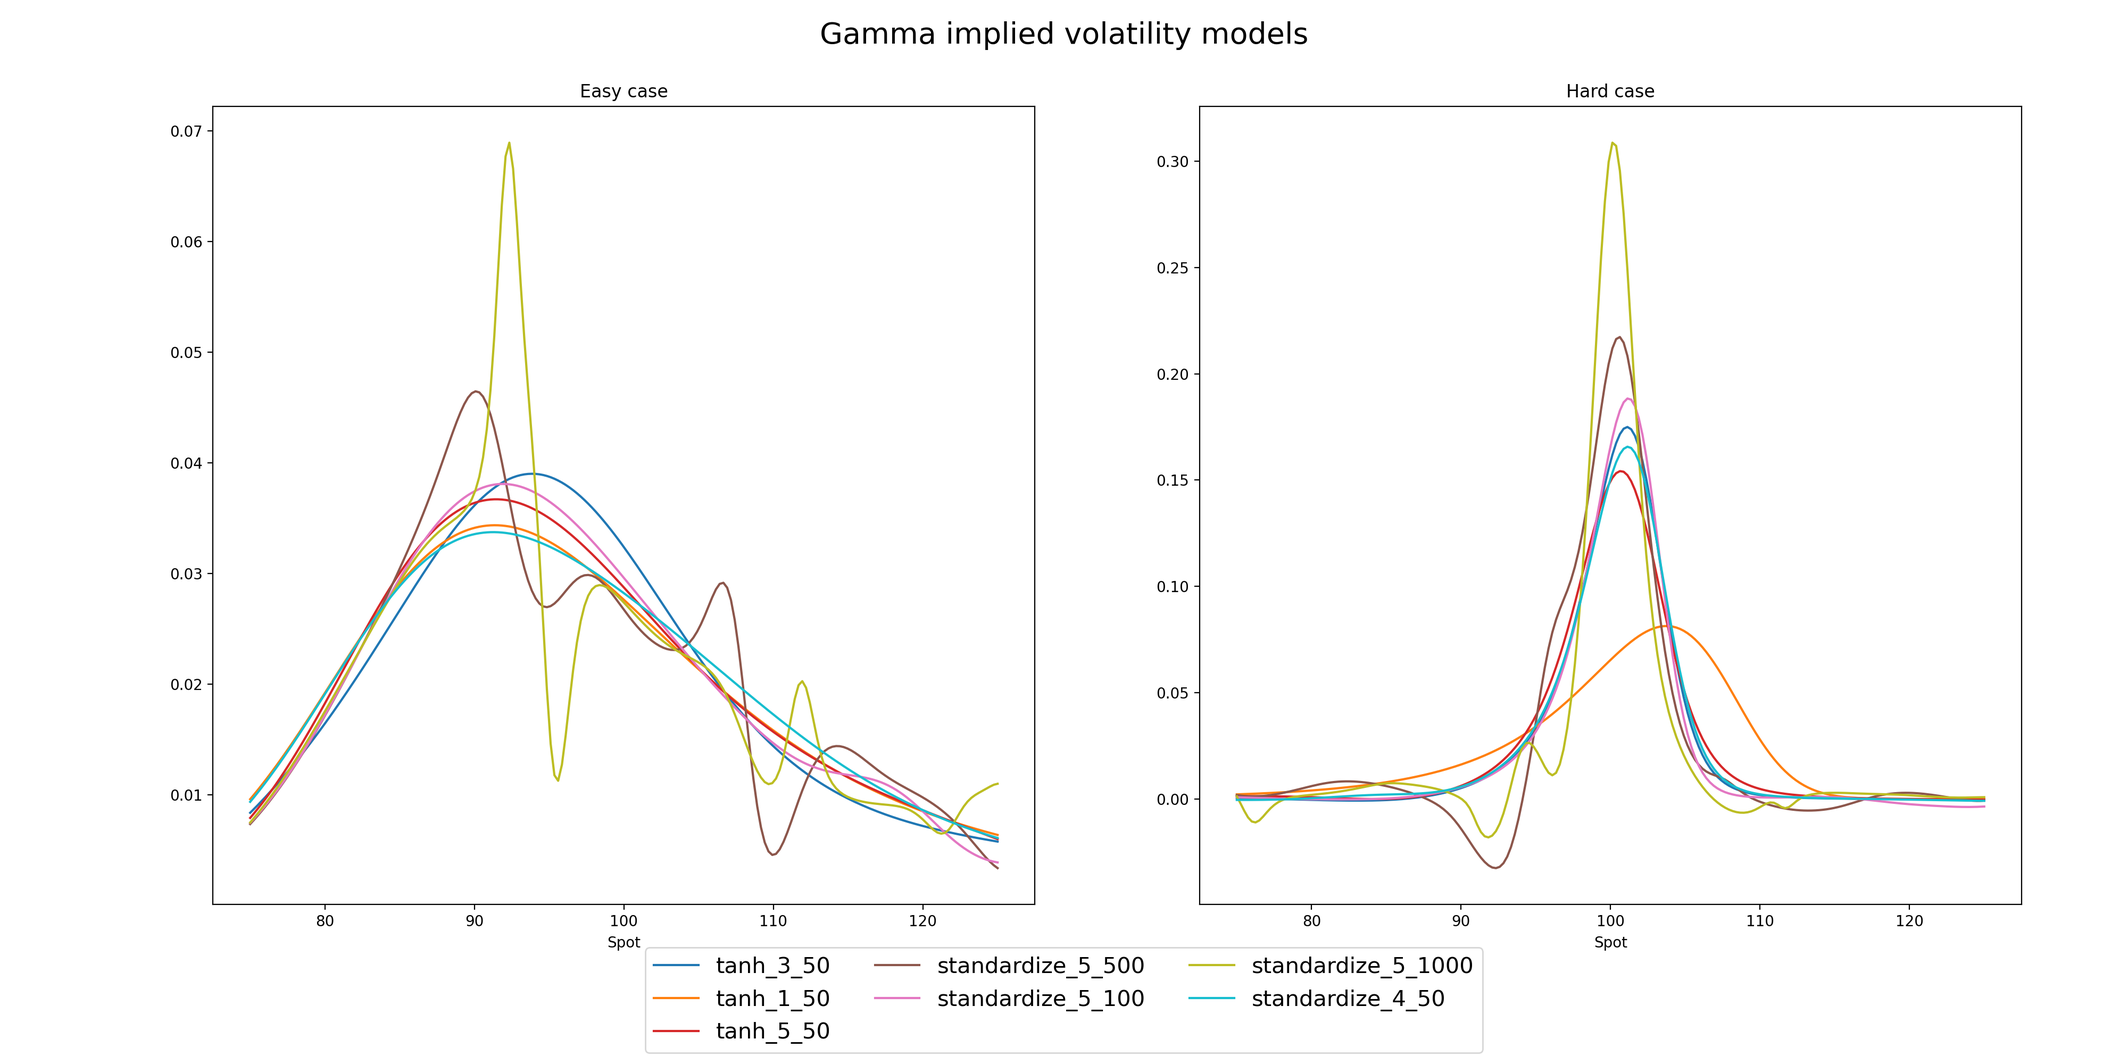
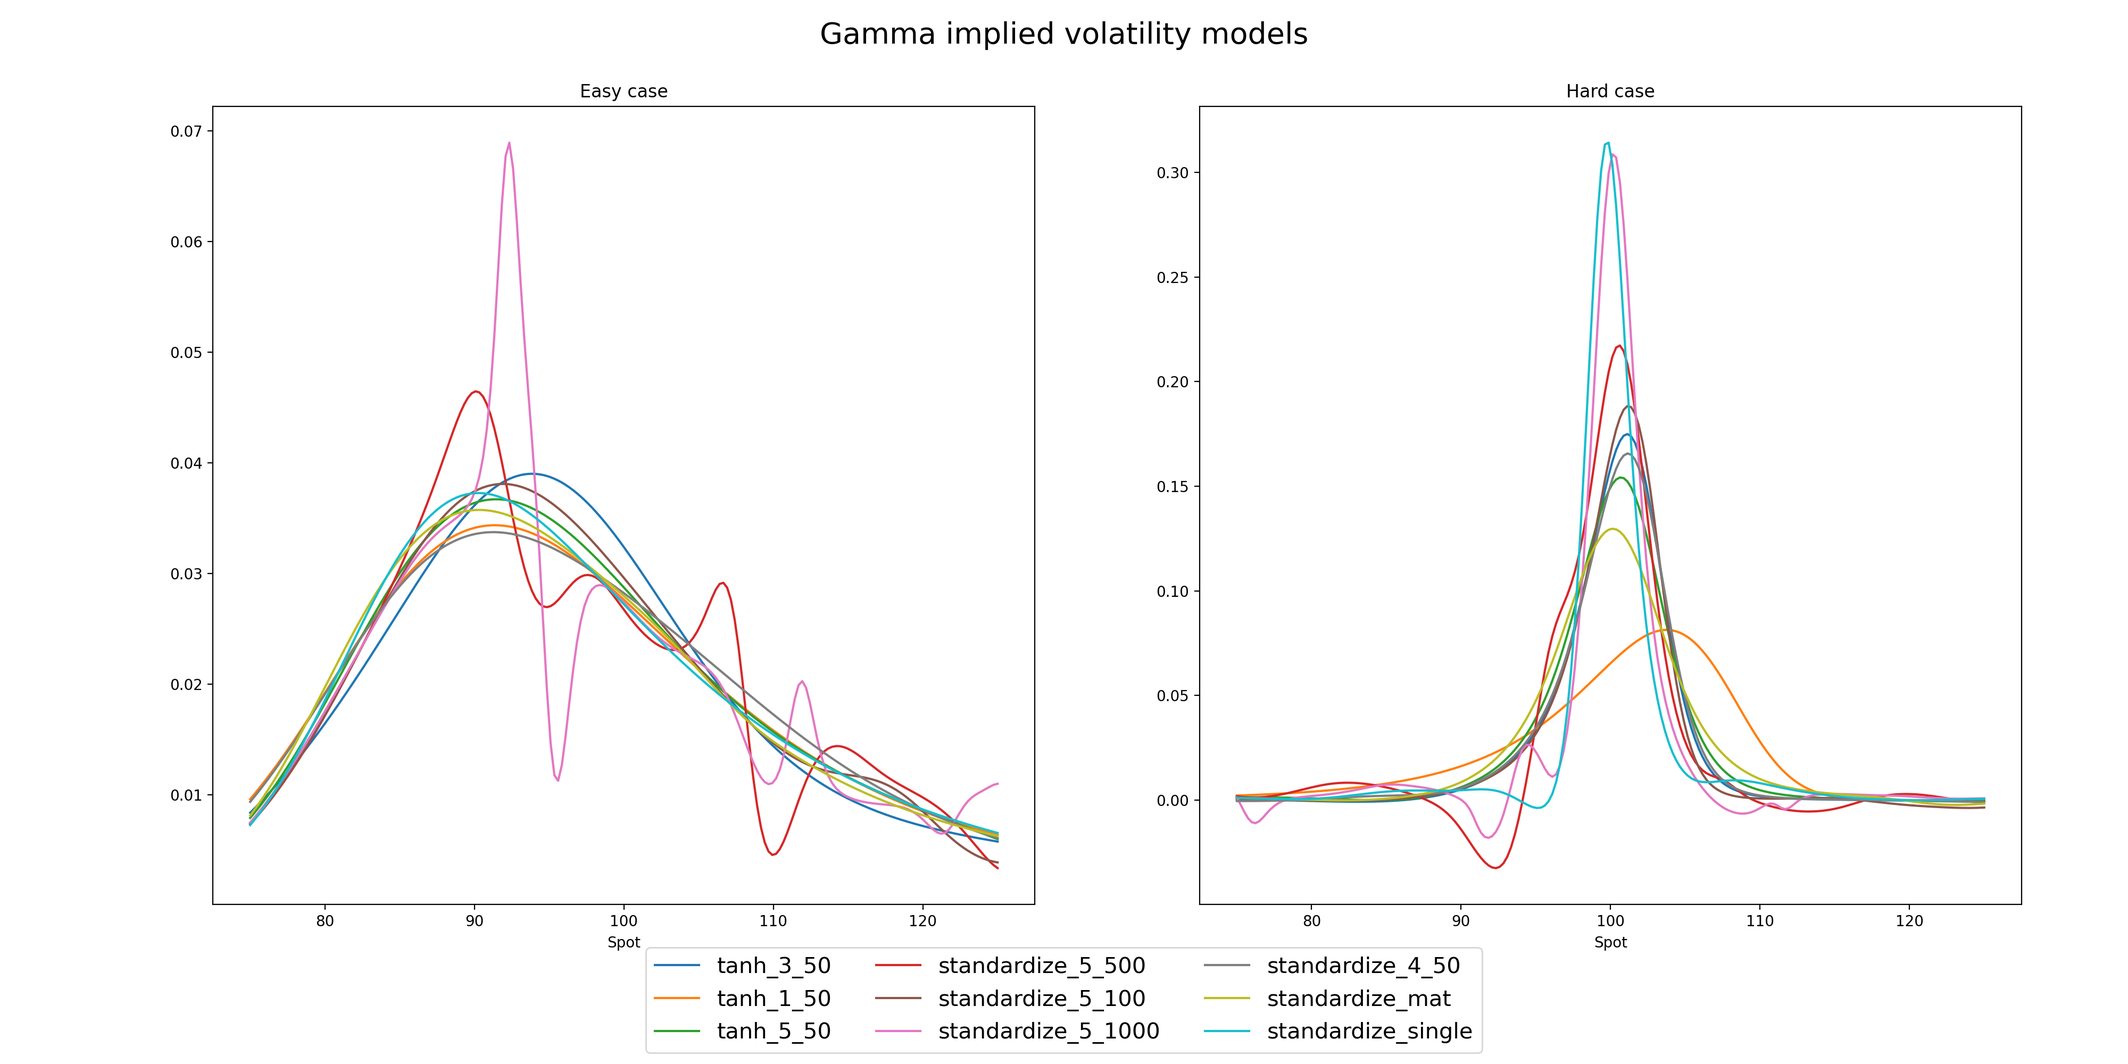
lets goooo

diff --git a/Thesis/Heston/MC_al.py b/Thesis/Heston/MC_al.py
@@ -18,7 +18,7 @@ import sys
 import os
 sys.path.append(os.getcwd()) # added for calc server support
 
-from Thesis.Heston import MonteCarlo as mc, AndersenLake as al, HestonModel as hm, NNModelGenerator as mg
+from Thesis.Heston import MonteCarlo as mc, AndersenLake as al, HestonModel as hm, NNModelGenerator as mg, ModelGenerator
 from Thesis.misc import VanillaOptions as vo
 from Thesis import NeuralNetworkGenerator as nng
 from Thesis.BlackScholes import BlackScholes as bs
@@ -178,6 +178,20 @@ def model_grads(model_string : str, easy_case : np.ndarray, hard_case : np.ndarr
     else:
         normal_out = False
 
+    if (model_string.find("standardize_mat") != -1):
+        option_no = 2
+        mat = np.reshape(np.repeat(1.005, np.shape(easy_case)[0]), (-1, 1))
+        easy_case = np.concatenate((easy_case, mat), axis = 1)
+        hard_case = np.concatenate((hard_case, mat), axis = 1)
+    elif (model_string.find("standardize_single") != -1):
+        option_no = 0
+        mat = np.reshape(np.repeat(1.005, np.shape(easy_case)[0]), (-1, 1))
+        strike = np.reshape(np.repeat(100, np.shape(easy_case)[0]), (-1, 1))
+        easy_case = np.concatenate((easy_case, mat, strike), axis = 1)
+        hard_case = np.concatenate((hard_case, mat, strike), axis = 1)
+    else:
+        option_no = 12
+
     if isinstance(norm_feature, MinMaxScaler):
         grads_bot = (norm_feature.data_max_[0] - norm_feature.data_min_[0])
         grads2_bot = ((norm_feature.data_max_[0] - norm_feature.data_min_[0]) ** 2)
@@ -189,29 +203,14 @@ def model_grads(model_string : str, easy_case : np.ndarray, hard_case : np.ndarr
         grads2_bot = 1
     if normal_out:
         if isinstance(norm_labels, MinMaxScaler):
-            grads_top = (norm_labels.data_max_[12] - norm_labels.data_min_[12])
+            grads_top = (norm_labels.data_max_[option_no] - norm_labels.data_min_[option_no])
         elif isinstance(norm_labels, StandardScaler):
-            grads_top = np.sqrt(norm_labels.var_[12])
+            grads_top = np.sqrt(norm_labels.var_[option_no])
     else:
         grads_top = 1
 
     grads_scale = grads_top / grads_bot
     grads2_scale = grads_top / grads2_bot
-    """
-    if normal_out:
-            grads_scale = np.sqrt(norm_labels.var_[12]) / (norm_feature.data_max_[0] - norm_feature.data_min_[0])
-            grads2_scale = np.sqrt(norm_labels.var_[12]) / ((norm_feature.data_max_[0] - norm_feature.data_min_[0]) ** 2)
-        else:
-            grads_scale = 1 / (norm_feature.data_max_[0] - norm_feature.data_min_[0])
-            grads2_scale = 1 / ((norm_feature.data_max_[0] - norm_feature.data_min_[0]) ** 2)
-    else:
-        if normal_out:
-            grads_scale = np.sqrt(norm_labels.var_[12]) / np.sqrt(norm_feature.var_[0])
-            grads2_scale = np.sqrt(norm_labels.var_[12]) / (np.sqrt(norm_feature.var_[0]) ** 2)
-        else:
-            grads_scale = 1 / np.sqrt(norm_feature.var_[0])
-            grads2_scale = 1 / (np.sqrt(norm_feature.var_[0]) ** 2)
-    """
 
     inp_tensor_easy = tf.convert_to_tensor(norm_feature.transform(easy_case))
     inp_tensor_hard = tf.convert_to_tensor(norm_feature.transform(hard_case))
@@ -220,31 +219,31 @@ def model_grads(model_string : str, easy_case : np.ndarray, hard_case : np.ndarr
         tape.watch(inp_tensor_easy)
         with tf.GradientTape(persistent = True) as tape2:
             tape2.watch(inp_tensor_easy)
-            predict_easy = model(inp_tensor_easy)[:,12]
+            predict_easy = model(inp_tensor_easy)[:,option_no]
         grads_easy = tape2.gradient(predict_easy, inp_tensor_easy)[:,0]
     
     grads2_easy = tape.gradient(grads_easy, inp_tensor_easy).numpy() 
     grads2_easy = grads2_easy[:,0] * grads2_scale
     grads_easy = grads_easy.numpy() * grads_scale
     try:
-        predict_easy = norm_labels.inverse_transform(model(inp_tensor_easy))[:,12]
+        predict_easy = norm_labels.inverse_transform(model(inp_tensor_easy))[:,option_no]
     except:
-        predict_easy = model(inp_tensor_easy)[:,12]
+        predict_easy = model(inp_tensor_easy)[:,option_no]
 
     with tf.GradientTape(persistent = True) as tape:
         tape.watch(inp_tensor_hard)
         with tf.GradientTape(persistent = True) as tape2:
             tape2.watch(inp_tensor_hard)
-            predict_hard = model(inp_tensor_hard)[:,12]
+            predict_hard = model(inp_tensor_hard)[:,option_no]
         grads_hard = tape2.gradient(predict_hard, inp_tensor_hard)[:,0]
     
     grads2_hard = tape.gradient(grads_hard, inp_tensor_hard).numpy()
     grads2_hard = grads2_hard[:,0] * grads2_scale
     grads_hard = grads_hard.numpy() * grads_scale
     try:
-        predict_hard = norm_labels.inverse_transform(model(inp_tensor_hard))[:,12]
+        predict_hard = norm_labels.inverse_transform(model(inp_tensor_hard))[:,option_no]
     except:
-        predict_hard = model(inp_tensor_hard)[:,12]
+        predict_hard = model(inp_tensor_hard)[:,option_no]
 
     if (model_string.find("price") == -1): # we are modelling implied vol
         spot_plot = easy_case[:,0]
@@ -583,6 +582,14 @@ if __name__ == "__main__":
     tanh_3_50 = "Models5/tanh/tanh_3_50.h5"
     tanh_3_50_dict = model_grads(tanh_3_50, input_good_easy, input_good_hard, some_option)
 
+    ### Mat models
+    standardize_mat = "Models5/standardize_mat/standardize_mat_5_1000.h5"
+    standardize_mat_dict = model_grads(standardize_mat, input_good_easy, input_good_hard, some_option)
+
+    ### Single models
+    standardize_single = "Models5/standardize_single/standardize_single_5_100.h5"
+    standardize_single_dict = model_grads(standardize_single, input_good_easy, input_good_hard, some_option)
+
     prediction_data = {
         "tanh_3_50" : [tanh_3_50_dict["pred"][0], tanh_3_50_dict["pred"][1]],
         "tanh_1_50" : [tanh_1_50_dict["pred"][0], tanh_1_50_dict["pred"][1]],
@@ -590,7 +597,9 @@ if __name__ == "__main__":
         "standardize_5_500" : [standardize_5_500_dict["pred"][0], standardize_5_500_dict["pred"][1]],
         "standardize_5_100" : [standardize_5_100_dict["pred"][0], standardize_5_100_dict["pred"][1]],
         "standardize_5_1000" : [standardize_5_1000_dict["pred"][0], standardize_5_1000_dict["pred"][1]],
-        "standardize_4_50" : [standardize_4_50_dict["pred"][0], standardize_4_50_dict["pred"][1]]
+        "standardize_4_50" : [standardize_4_50_dict["pred"][0], standardize_4_50_dict["pred"][1]],
+        "standardize_mat" : [standardize_mat_dict["pred"][0], standardize_mat_dict["pred"][1]],
+        "standardize_single" : [standardize_single_dict["pred"][0], standardize_single_dict["pred"][1]]
     }
 
     delta_data = {
@@ -600,7 +609,9 @@ if __name__ == "__main__":
         "standardize_5_500" : [standardize_5_500_dict["delta"][0], standardize_5_500_dict["delta"][1]],
         "standardize_5_100" : [standardize_5_100_dict["delta"][0], standardize_5_100_dict["delta"][1]],
         "standardize_5_1000" : [standardize_5_1000_dict["delta"][0], standardize_5_1000_dict["delta"][1]],
-        "standardize_4_50" : [standardize_4_50_dict["delta"][0], standardize_4_50_dict["delta"][1]]
+        "standardize_4_50" : [standardize_4_50_dict["delta"][0], standardize_4_50_dict["delta"][1]],
+        "standardize_mat" : [standardize_mat_dict["delta"][0], standardize_mat_dict["delta"][1]],
+        "standardize_single" : [standardize_single_dict["delta"][0], standardize_single_dict["delta"][1]]
     }
 
     gamma_data = {
@@ -610,7 +621,9 @@ if __name__ == "__main__":
         "standardize_5_500" : [standardize_5_500_dict["gamma"][0], standardize_5_500_dict["gamma"][1]],
         "standardize_5_100" : [standardize_5_100_dict["gamma"][0], standardize_5_100_dict["gamma"][1]],
         "standardize_5_1000" : [standardize_5_1000_dict["gamma"][0], standardize_5_1000_dict["gamma"][1]],
-        "standardize_4_50" : [standardize_4_50_dict["gamma"][0], standardize_4_50_dict["gamma"][1]]
+        "standardize_4_50" : [standardize_4_50_dict["gamma"][0], standardize_4_50_dict["gamma"][1]],
+        "standardize_mat" : [standardize_mat_dict["gamma"][0], standardize_mat_dict["gamma"][1]],
+        "standardize_single" : [standardize_single_dict["gamma"][0], standardize_single_dict["gamma"][1]]
     }
 
     plot_func(spot_plot, prediction_data, "Predictions implied volatility models")
@@ -702,33 +715,33 @@ if __name__ == "__main__":
     mc_100_4_1000_dict = model_grads(mc_100_4_1000, input_good_easy, input_good_hard, some_option)
 
     mc_prediction_data = {
-        "mc_1000_price_5_1000" : [mc_1000_price_5_1000_dict["pred"][0], mc_1000_price_5_1000_dict["pred"][1]],
-        "mc_10_price_5_50" : [mc_10_price_5_50_dict["pred"][0], mc_10_price_5_50_dict["pred"][1]],
-        "mc_10000_price_3_1000" : [mc_10000_price_3_1000_dict["pred"][0], mc_10000_price_3_1000_dict["pred"][1]],
-        "mc_100_price_4_500" : [mc_100_price_4_500_dict["pred"][0], mc_100_price_4_500_dict["pred"][1]],
-        "mc_1_price_2_1000" : [mc_1_price_2_1000_dict["pred"][0], mc_1_price_2_1000_dict["pred"][1]],
+        #"mc_1000_price_5_1000" : [mc_1000_price_5_1000_dict["pred"][0], mc_1000_price_5_1000_dict["pred"][1]],
+        #"mc_10_price_5_50" : [mc_10_price_5_50_dict["pred"][0], mc_10_price_5_50_dict["pred"][1]],
+        #"mc_10000_price_3_1000" : [mc_10000_price_3_1000_dict["pred"][0], mc_10000_price_3_1000_dict["pred"][1]],
+        #"mc_100_price_4_500" : [mc_100_price_4_500_dict["pred"][0], mc_100_price_4_500_dict["pred"][1]],
+        #"mc_1_price_2_1000" : [mc_1_price_2_1000_dict["pred"][0], mc_1_price_2_1000_dict["pred"][1]],
         "mc_10000_5_1000" : [mc_10000_5_1000_dict["pred"][0], mc_10000_5_1000_dict["pred"][1]],
         "mc_1000_5_100" : [mc_1000_5_100_dict["pred"][0], mc_1000_5_100_dict["pred"][1]],
         "mc_100_4_1000" : [mc_100_4_1000_dict["pred"][0], mc_100_4_1000_dict["pred"][1]]
     }
 
     mc_delta_data= {
-        "mc_1000_price_5_1000" : [mc_1000_price_5_1000_dict["delta"][0], mc_1000_price_5_1000_dict["delta"][1]],
-        "mc_10_price_5_50" : [mc_10_price_5_50_dict["delta"][0], mc_10_price_5_50_dict["delta"][1]],
-        "mc_10000_price_3_1000" : [mc_10000_price_3_1000_dict["delta"][0], mc_10000_price_3_1000_dict["delta"][1]],
-        "mc_100_price_4_500" : [mc_100_price_4_500_dict["delta"][0], mc_100_price_4_500_dict["delta"][1]],
-        "mc_1_price_2_1000" : [mc_1_price_2_1000_dict["delta"][0], mc_1_price_2_1000_dict["delta"][1]],
+        #"mc_1000_price_5_1000" : [mc_1000_price_5_1000_dict["delta"][0], mc_1000_price_5_1000_dict["delta"][1]],
+        #"mc_10_price_5_50" : [mc_10_price_5_50_dict["delta"][0], mc_10_price_5_50_dict["delta"][1]],
+        #"mc_10000_price_3_1000" : [mc_10000_price_3_1000_dict["delta"][0], mc_10000_price_3_1000_dict["delta"][1]],
+        #"mc_100_price_4_500" : [mc_100_price_4_500_dict["delta"][0], mc_100_price_4_500_dict["delta"][1]],
+        #"mc_1_price_2_1000" : [mc_1_price_2_1000_dict["delta"][0], mc_1_price_2_1000_dict["delta"][1]],
         "mc_10000_5_1000" : [mc_10000_5_1000_dict["delta"][0], mc_10000_5_1000_dict["delta"][1]],
         "mc_1000_5_100" : [mc_1000_5_100_dict["delta"][0], mc_1000_5_100_dict["delta"][1]],
         "mc_100_4_1000" : [mc_100_4_1000_dict["delta"][0], mc_100_4_1000_dict["delta"][1]]
     }
 
     mc_gamma_data = {
-        "mc_1000_price_5_1000" : [mc_1000_price_5_1000_dict["gamma"][0], mc_1000_price_5_1000_dict["gamma"][1]],
-        "mc_10_price_5_50" : [mc_10_price_5_50_dict["gamma"][0], mc_10_price_5_50_dict["gamma"][1]],
-        "mc_10000_price_3_1000" : [mc_10000_price_3_1000_dict["gamma"][0], mc_10000_price_3_1000_dict["gamma"][1]],
-        "mc_100_price_4_500" : [mc_100_price_4_500_dict["gamma"][0], mc_100_price_4_500_dict["gamma"][1]],
-        "mc_1_price_2_1000" : [mc_1_price_2_1000_dict["gamma"][0], mc_1_price_2_1000_dict["gamma"][1]],
+        #"mc_1000_price_5_1000" : [mc_1000_price_5_1000_dict["gamma"][0], mc_1000_price_5_1000_dict["gamma"][1]],
+        #"mc_10_price_5_50" : [mc_10_price_5_50_dict["gamma"][0], mc_10_price_5_50_dict["gamma"][1]],
+        #"mc_10000_price_3_1000" : [mc_10000_price_3_1000_dict["gamma"][0], mc_10000_price_3_1000_dict["gamma"][1]],
+        #"mc_100_price_4_500" : [mc_100_price_4_500_dict["gamma"][0], mc_100_price_4_500_dict["gamma"][1]],
+        #"mc_1_price_2_1000" : [mc_1_price_2_1000_dict["gamma"][0], mc_1_price_2_1000_dict["gamma"][1]],
         "mc_10000_5_1000" : [mc_10000_5_1000_dict["gamma"][0], mc_10000_5_1000_dict["gamma"][1]],
         "mc_1000_5_100" : [mc_1000_5_100_dict["gamma"][0], mc_1000_5_100_dict["gamma"][1]],
         "mc_100_4_1000" : [mc_100_4_1000_dict["gamma"][0], mc_100_4_1000_dict["gamma"][1]]

diff --git a/Thesis/Heston/MonteCarlo.py b/Thesis/Heston/MonteCarlo.py
@@ -10,7 +10,7 @@ import itertools
 import sys
 sys.path.append(os.getcwd()) # added for calc server support
 
-from Thesis.Heston import NNModelGenerator as mg, HestonModel as hm, AndersenLake as al
+from Thesis.Heston import NNModelGenerator as mg, HestonModel as hm, AndersenLake as al, ModelGenerator
 from Thesis.misc import VanillaOptions as vo
 
 def Heston_monte_carlo(some_model : hm.HestonClass, some_option : vo.VanillaOption, paths : int):
@@ -165,7 +165,51 @@ if __name__ == '__main__':
         itertools.repeat("mc_10000"), layer_neuron_combs[:, 0], layer_neuron_combs[:, 1], \
         itertools.repeat("normal"), itertools.repeat("False"), itertools.repeat("standardize"), itertools.repeat(False)))
 
+    ### Implied vols, maturity
+    mc_1_mat_set = list(zip(itertools.repeat(mc_1_imp), itertools.repeat("mc_1_mat"), \
+        itertools.repeat("mc_1_mat"), layer_neuron_combs[:, 0], layer_neuron_combs[:, 1], \
+        itertools.repeat("normal"), itertools.repeat("False"), itertools.repeat("standardize"), itertools.repeat(False), itertools.repeat("mat")))
+
+    mc_10_mat_set = list(zip(itertools.repeat(mc_10_imp), itertools.repeat("mc_10_mat"), \
+        itertools.repeat("mc_10_mat"), layer_neuron_combs[:, 0], layer_neuron_combs[:, 1], \
+        itertools.repeat("normal"), itertools.repeat("False"), itertools.repeat("standardize"), itertools.repeat(False), itertools.repeat("mat")))
+
+    mc_100_mat_set = list(zip(itertools.repeat(mc_100_imp), itertools.repeat("mc_100_mat"), \
+        itertools.repeat("mc_100_mat"), layer_neuron_combs[:, 0], layer_neuron_combs[:, 1], \
+        itertools.repeat("normal"), itertools.repeat("False"), itertools.repeat("standardize"), itertools.repeat(False), itertools.repeat("mat")))
+
+    mc_1000_mat_set = list(zip(itertools.repeat(mc_1000_imp), itertools.repeat("mc_1000_mat"), \
+        itertools.repeat("mc_1000_mat"), layer_neuron_combs[:, 0], layer_neuron_combs[:, 1], \
+        itertools.repeat("normal"), itertools.repeat("False"), itertools.repeat("standardize"), itertools.repeat(False), itertools.repeat("mat")))
+
+    mc_10000_mat_set = list(zip(itertools.repeat(mc_10000_imp), itertools.repeat("mc_10000_mat"), \
+        itertools.repeat("mc_10000_mat"), layer_neuron_combs[:, 0], layer_neuron_combs[:, 1], \
+        itertools.repeat("normal"), itertools.repeat("False"), itertools.repeat("standardize"), itertools.repeat(False), itertools.repeat("mat")))
+
+        ### Implied vols
+    mc_1_single_set = list(zip(itertools.repeat(mc_1_imp), itertools.repeat("mc_1_single"), \
+        itertools.repeat("mc_1_single"), layer_neuron_combs[:, 0], layer_neuron_combs[:, 1], \
+        itertools.repeat("normal"), itertools.repeat("False"), itertools.repeat("standardize"), itertools.repeat(False), itertools.repeat("single")))
+
+    mc_10_single_set = list(zip(itertools.repeat(mc_10_imp), itertools.repeat("mc_10_single"), \
+        itertools.repeat("mc_10_single"), layer_neuron_combs[:, 0], layer_neuron_combs[:, 1], \
+        itertools.repeat("normal"), itertools.repeat("False"), itertools.repeat("standardize"), itertools.repeat(False), itertools.repeat("single")))
+
+    mc_100_single_set = list(zip(itertools.repeat(mc_100_imp), itertools.repeat("mc_100_single"), \
+        itertools.repeat("mc_100_single"), layer_neuron_combs[:, 0], layer_neuron_combs[:, 1], \
+        itertools.repeat("normal"), itertools.repeat("False"), itertools.repeat("standardize"), itertools.repeat(False), itertools.repeat("single")))
+
+    mc_1000_single_set = list(zip(itertools.repeat(mc_1000_imp), itertools.repeat("mc_1000_single"), \
+        itertools.repeat("mc_1000_single"), layer_neuron_combs[:, 0], layer_neuron_combs[:, 1], \
+        itertools.repeat("normal"), itertools.repeat("False"), itertools.repeat("standardize"), itertools.repeat(False), itertools.repeat("single")))
+
+    mc_10000_single_set = list(zip(itertools.repeat(mc_10000_imp), itertools.repeat("mc_10000_single"), \
+        itertools.repeat("mc_10000_single"), layer_neuron_combs[:, 0], layer_neuron_combs[:, 1], \
+        itertools.repeat("normal"), itertools.repeat("False"), itertools.repeat("standardize"), itertools.repeat(False), itertools.repeat("single")))
+
     imp_list = mc_1_set + mc_10_set + mc_100_set + mc_1000_set + mc_10000_set
+    imp_mat_list = mc_1_mat_set + mc_10_mat_set + mc_100_mat_set + mc_1000_mat_set + mc_10000_mat_set
+    imp_single_list = mc_1_single_set + mc_10_single_set + mc_100_single_set + mc_1000_single_set + mc_10000_single_set
 
     ### Prices
     mc_1_price_set = list(zip(itertools.repeat(mc_1_price), itertools.repeat("mc_1_price"), \
@@ -190,13 +234,13 @@ if __name__ == '__main__':
 
     price_list = mc_1_price_set + mc_10_price_set + mc_100_price_set + mc_1000_price_set + mc_10000_price_set
 
-    server_list = imp_list + price_list
+    server_list = imp_mat_list + imp_single_list
 
     if cpu_count() == 4:
         cpu_cores = 4
     else:
-        cpu_cores = int(min(cpu_count()/4, 16))
+        cpu_cores = int(min(cpu_count()/2, 20))
 
     pool = Pool(cpu_cores)
-    res = pool.starmap(mg.NN_mc_model_1, price_list, chunksize=1)
+    res = pool.starmap(mg.NN_mc_model_1, server_list, chunksize=1)
     pool.close()

diff --git a/Thesis/Heston/NNModelGenerator.py b/Thesis/Heston/NNModelGenerator.py
@@ -11,7 +11,7 @@ import os
 sys.path.append(os.getcwd()) # added for calc server support
 
 from Thesis import NeuralNetworkGenerator as nng
-from Thesis.Heston import DataGeneration as dg
+from Thesis.Heston import DataGeneration as dg, ModelGenerator as mg
 from sklearn.model_selection import train_test_split
 
 def lr_schedule(epoch, rate):
@@ -114,11 +114,18 @@ def NNModelNext(data_set : list, folder : str, model_name : str, n_layers : int,
     print("Done with: ", model_save)
     return score
 
-def NN_mc_model_1(data_set : list, folder : str, model_name : str, n_layers : int, n_neurons : int, nn_type : str,  output_scaling : str, input_scaling : str, include_zero : bool) -> float:
+def NN_mc_model_1(data_set : list, folder : str, model_name : str, n_layers : int, n_neurons : int, nn_type : str,  output_scaling : str, input_scaling : str, include_zero : bool, special_type : str = None) -> float:
     X_train = data_set[0] 
     X_test = data_set[1]
     Y_train = data_set[2]
     Y_test = data_set[3]
+
+    if special_type == "mat":
+        X_train, Y_train = mg.transform_mat(X_train, Y_train)
+        X_test, Y_test = mg.transform_mat(X_test, Y_test)
+    elif special_type == "single":
+        X_train, Y_train = mg.transform_single(X_train, Y_train)
+        X_test, Y_test = mg.transform_single(X_test, Y_test)
 
     if include_zero:
         train_index = np.all(Y_train != -1, axis = 1)

diff --git a/Thesis/Heston/ModelTesting.py b/Thesis/Heston/ModelTesting.py
@@ -348,7 +348,6 @@ def model_test_set(model_list : list, X_test : np.ndarray, Y_test : np.ndarray, 
         elif (model_string.find("mat") != -1):
             x_test_loop, y_test_loop = mg.transform_mat(x_test_loop, y_test_loop)
         
-
         if ((model_string.find("benchmark_include") != -1) or (model_string.find("price_include") != -1)):
             index = np.all(y_test_loop != -1, axis = 1)
         else:
@@ -773,12 +772,18 @@ if __name__ == "__main__":
 
     top_first_network_list.sort(key = lambda x: x[1])
 
+    ### New models
+    standardize_mat = glob.glob("Models5/standardize_mat/*.h5")
+    standardize_mat_mse = model_test_set(standardize_mat, X_test, Y_test, Y_test_price)
+    standardize_mat_mse.sort(key = lambda x: x[1])
+
+    with open("standardize_mat_mse.pkl", "wb") as fp:   #Pickling
+        pickle.dump(standardize_mat_mse, fp)
+
+    with open("standardize_mat_mse.pkl", "rb") as fp:   # Unpickling
+        standardize_mat_mse = pickle.load(fp)
 
     """
-    ### New models
-    base = glob.glob("Models4/benchmark/*.h5")
-    #generate_plots(base, "base")
-
     grid_vs_sobol = glob.glob("Models4/grid_vs_sobol/*.h5")
     #generate_plots(grid_vs_sobol, "grid_vs_sobol")
 
